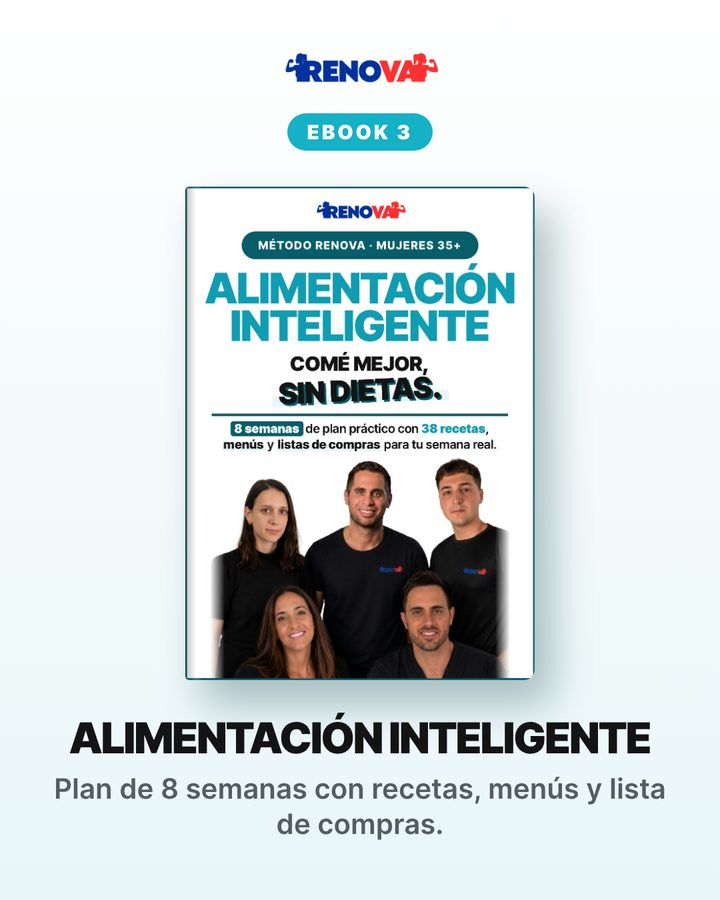
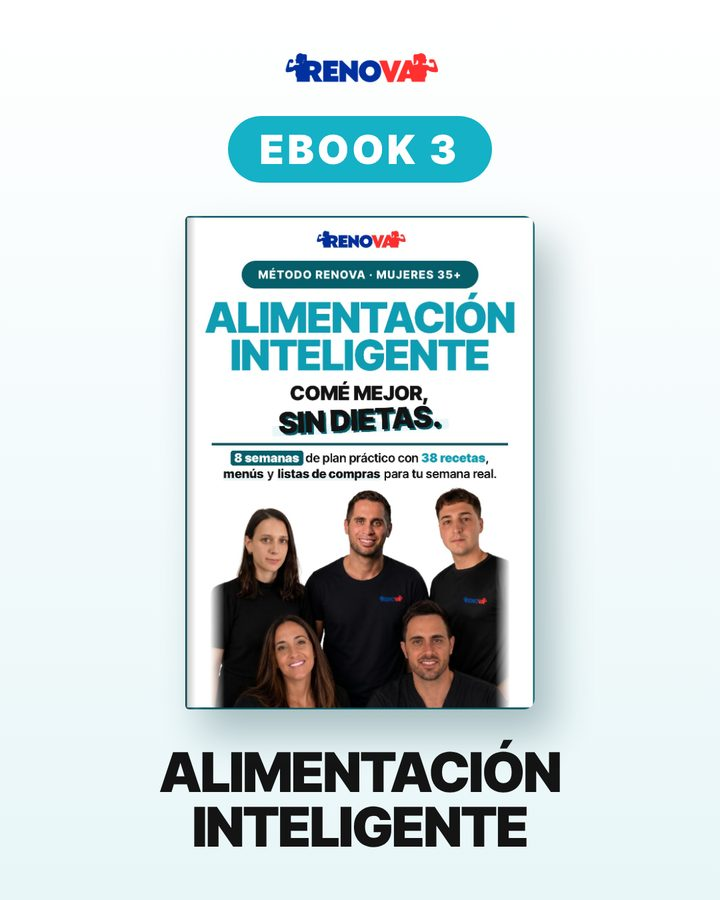
Carrusel: sin subtítulos, etiqueta y título más grandes
Claude-Session: https://claude.ai/code/session_016d9STMTFsB819XAn27rxwK

Changed region(s): [[0.0611, 0.1244, 0.9472, 0.9644]]

diff --git a/fuentes/landing/mockups/carrusel_07.html b/fuentes/landing/mockups/carrusel_07.html
@@ -96,15 +96,15 @@
 body{width:1080px;height:1350px;overflow:hidden;font-family:InterW,sans-serif;color:var(--rnv-tinta);text-align:center;
  background:linear-gradient(180deg,#fff 0%,var(--rnv-turquesa-fondo) 100%)}
 .top{padding-top:80px}.top img{height:56px}
-.tag{display:inline-block;margin-top:30px;font:900 30px InterTightW,sans-serif;letter-spacing:.14em;color:#fff;background:var(--rnv-turquesa);padding:10px 30px;border-radius:999px}
+.tag{display:inline-block;margin-top:34px;font:900 60px InterTightW,sans-serif;letter-spacing:.1em;color:#fff;background:var(--rnv-turquesa);padding:14px 48px;border-radius:999px}
 .tag.b{background:var(--rnv-oro);color:var(--rnv-tinta)}
-.obj{margin:44px auto 0;display:flex;justify-content:center;align-items:center;height:760px}
+.obj{margin:40px auto 0;display:flex;justify-content:center;align-items:center;height:760px}
 .tapa{height:740px;aspect-ratio:210/297;border-radius:6px 16px 16px 6px;overflow:hidden;background:#fff;position:relative;
  box-shadow:26px 36px 60px rgba(6,52,59,.3),0 0 0 1px rgba(0,0,0,.05)}
 .tapa img{width:100%;height:100%;object-fit:cover;object-position:50% 0;display:block}
 .tapa::after{content:"";position:absolute;inset:0 auto 0 0;width:5%;background:linear-gradient(90deg,rgba(0,0,0,.25),rgba(255,255,255,.15) 60%,transparent)}
 .foto{width:900px;height:675px;border-radius:30px;overflow:hidden;box-shadow:0 0 0 8px #fff,0 0 0 11px var(--rnv-turquesa-borde),26px 36px 60px rgba(6,52,59,.25)}
 .foto img{width:100%;height:100%;object-fit:cover;display:block}
-h1{font:900 64px/1.02 InterTightW,sans-serif;letter-spacing:-.02em;text-transform:uppercase;margin-top:44px}
+h1{font:900 82px/1 InterTightW,sans-serif;letter-spacing:-.02em;text-transform:uppercase;margin-top:44px}
 p{font:600 42px/1.25 InterW,sans-serif;color:var(--rnv-gris);margin:18px 70px 0}
-</style><div class="top"><img src="../img/logo.png"><br><span class="tag b">BONUS 4</span></div><div class="obj"><div class="foto"><img src="../img/taller_super.jpg"></div></div><h1>Talleres con profesionales</h1><p>Nutrición, hábitos, estrés y sueño, con nuestro equipo.</p>
+</style><div class="top"><img src="../img/logo.png"><br><span class="tag b">BONUS 4</span></div><div class="obj"><div class="foto"><img src="../img/taller_super.jpg"></div></div><h1>Talleres con<br>profesionales</h1>

diff --git a/fuentes/landing/mockups/carrusel_05.html b/fuentes/landing/mockups/carrusel_05.html
@@ -96,15 +96,15 @@
 body{width:1080px;height:1350px;overflow:hidden;font-family:InterW,sans-serif;color:var(--rnv-tinta);text-align:center;
  background:linear-gradient(180deg,#fff 0%,var(--rnv-turquesa-fondo) 100%)}
 .top{padding-top:80px}.top img{height:56px}
-.tag{display:inline-block;margin-top:30px;font:900 30px InterTightW,sans-serif;letter-spacing:.14em;color:#fff;background:var(--rnv-turquesa);padding:10px 30px;border-radius:999px}
+.tag{display:inline-block;margin-top:34px;font:900 60px InterTightW,sans-serif;letter-spacing:.1em;color:#fff;background:var(--rnv-turquesa);padding:14px 48px;border-radius:999px}
 .tag.b{background:var(--rnv-oro);color:var(--rnv-tinta)}
-.obj{margin:44px auto 0;display:flex;justify-content:center;align-items:center;height:760px}
+.obj{margin:40px auto 0;display:flex;justify-content:center;align-items:center;height:760px}
 .tapa{height:740px;aspect-ratio:210/297;border-radius:6px 16px 16px 6px;overflow:hidden;background:#fff;position:relative;
  box-shadow:26px 36px 60px rgba(6,52,59,.3),0 0 0 1px rgba(0,0,0,.05)}
 .tapa img{width:100%;height:100%;object-fit:cover;object-position:50% 0;display:block}
 .tapa::after{content:"";position:absolute;inset:0 auto 0 0;width:5%;background:linear-gradient(90deg,rgba(0,0,0,.25),rgba(255,255,255,.15) 60%,transparent)}
 .foto{width:900px;height:675px;border-radius:30px;overflow:hidden;box-shadow:0 0 0 8px #fff,0 0 0 11px var(--rnv-turquesa-borde),26px 36px 60px rgba(6,52,59,.25)}
 .foto img{width:100%;height:100%;object-fit:cover;display:block}
-h1{font:900 64px/1.02 InterTightW,sans-serif;letter-spacing:-.02em;text-transform:uppercase;margin-top:44px}
+h1{font:900 82px/1 InterTightW,sans-serif;letter-spacing:-.02em;text-transform:uppercase;margin-top:44px}
 p{font:600 42px/1.25 InterW,sans-serif;color:var(--rnv-gris);margin:18px 70px 0}
-</style><div class="top"><img src="../img/logo.png"><br><span class="tag b">BONUS 2</span></div><div class="obj"><div class="tapa"><img src="pack/tapa_express.png"></div></div><h1>Rutinas express de 15 minutos</h1><p>Para las semanas con poco tiempo, sin cortar el plan.</p>
+</style><div class="top"><img src="../img/logo.png"><br><span class="tag b">BONUS 2</span></div><div class="obj"><div class="tapa"><img src="pack/tapa_express.png"></div></div><h1>Rutinas express<br>de 15 minutos</h1>

diff --git a/fuentes/landing/mockups/carrusel_03.html b/fuentes/landing/mockups/carrusel_03.html
@@ -96,15 +96,15 @@
 body{width:1080px;height:1350px;overflow:hidden;font-family:InterW,sans-serif;color:var(--rnv-tinta);text-align:center;
  background:linear-gradient(180deg,#fff 0%,var(--rnv-turquesa-fondo) 100%)}
 .top{padding-top:80px}.top img{height:56px}
-.tag{display:inline-block;margin-top:30px;font:900 30px InterTightW,sans-serif;letter-spacing:.14em;color:#fff;background:var(--rnv-turquesa);padding:10px 30px;border-radius:999px}
+.tag{display:inline-block;margin-top:34px;font:900 60px InterTightW,sans-serif;letter-spacing:.1em;color:#fff;background:var(--rnv-turquesa);padding:14px 48px;border-radius:999px}
 .tag.b{background:var(--rnv-oro);color:var(--rnv-tinta)}
-.obj{margin:44px auto 0;display:flex;justify-content:center;align-items:center;height:760px}
+.obj{margin:40px auto 0;display:flex;justify-content:center;align-items:center;height:760px}
 .tapa{height:740px;aspect-ratio:210/297;border-radius:6px 16px 16px 6px;overflow:hidden;background:#fff;position:relative;
  box-shadow:26px 36px 60px rgba(6,52,59,.3),0 0 0 1px rgba(0,0,0,.05)}
 .tapa img{width:100%;height:100%;object-fit:cover;object-position:50% 0;display:block}
 .tapa::after{content:"";position:absolute;inset:0 auto 0 0;width:5%;background:linear-gradient(90deg,rgba(0,0,0,.25),rgba(255,255,255,.15) 60%,transparent)}
 .foto{width:900px;height:675px;border-radius:30px;overflow:hidden;box-shadow:0 0 0 8px #fff,0 0 0 11px var(--rnv-turquesa-borde),26px 36px 60px rgba(6,52,59,.25)}
 .foto img{width:100%;height:100%;object-fit:cover;display:block}
-h1{font:900 64px/1.02 InterTightW,sans-serif;letter-spacing:-.02em;text-transform:uppercase;margin-top:44px}
+h1{font:900 82px/1 InterTightW,sans-serif;letter-spacing:-.02em;text-transform:uppercase;margin-top:44px}
 p{font:600 42px/1.25 InterW,sans-serif;color:var(--rnv-gris);margin:18px 70px 0}
-</style><div class="top"><img src="../img/logo.png"><br><span class="tag">EBOOK 3</span></div><div class="obj"><div class="tapa"><img src="pack/tapa_nutri.jpg"></div></div><h1>Alimentación Inteligente</h1><p>Plan de 8 semanas con recetas, menús y lista de compras.</p>
+</style><div class="top"><img src="../img/logo.png"><br><span class="tag">EBOOK 3</span></div><div class="obj"><div class="tapa"><img src="pack/tapa_nutri.jpg"></div></div><h1>Alimentación<br>Inteligente</h1>

diff --git a/fuentes/landing/mockups/carrusel_02.html b/fuentes/landing/mockups/carrusel_02.html
@@ -96,15 +96,15 @@
 body{width:1080px;height:1350px;overflow:hidden;font-family:InterW,sans-serif;color:var(--rnv-tinta);text-align:center;
  background:linear-gradient(180deg,#fff 0%,var(--rnv-turquesa-fondo) 100%)}
 .top{padding-top:80px}.top img{height:56px}
-.tag{display:inline-block;margin-top:30px;font:900 30px InterTightW,sans-serif;letter-spacing:.14em;color:#fff;background:var(--rnv-turquesa);padding:10px 30px;border-radius:999px}
+.tag{display:inline-block;margin-top:34px;font:900 60px InterTightW,sans-serif;letter-spacing:.1em;color:#fff;background:var(--rnv-turquesa);padding:14px 48px;border-radius:999px}
 .tag.b{background:var(--rnv-oro);color:var(--rnv-tinta)}
-.obj{margin:44px auto 0;display:flex;justify-content:center;align-items:center;height:760px}
+.obj{margin:40px auto 0;display:flex;justify-content:center;align-items:center;height:760px}
 .tapa{height:740px;aspect-ratio:210/297;border-radius:6px 16px 16px 6px;overflow:hidden;background:#fff;position:relative;
  box-shadow:26px 36px 60px rgba(6,52,59,.3),0 0 0 1px rgba(0,0,0,.05)}
 .tapa img{width:100%;height:100%;object-fit:cover;object-position:50% 0;display:block}
 .tapa::after{content:"";position:absolute;inset:0 auto 0 0;width:5%;background:linear-gradient(90deg,rgba(0,0,0,.25),rgba(255,255,255,.15) 60%,transparent)}
 .foto{width:900px;height:675px;border-radius:30px;overflow:hidden;box-shadow:0 0 0 8px #fff,0 0 0 11px var(--rnv-turquesa-borde),26px 36px 60px rgba(6,52,59,.25)}
 .foto img{width:100%;height:100%;object-fit:cover;display:block}
-h1{font:900 64px/1.02 InterTightW,sans-serif;letter-spacing:-.02em;text-transform:uppercase;margin-top:44px}
+h1{font:900 82px/1 InterTightW,sans-serif;letter-spacing:-.02em;text-transform:uppercase;margin-top:44px}
 p{font:600 42px/1.25 InterW,sans-serif;color:var(--rnv-gris);margin:18px 70px 0}
-</style><div class="top"><img src="../img/logo.png"><br><span class="tag">EBOOK 2</span></div><div class="obj"><div class="tapa"><img src="pack/tapa_gym.jpg"></div></div><h1>Entrená en el gimnasio</h1><p>El plan de 8 semanas con máquinas y pesas, desde nivel inicial.</p>
+</style><div class="top"><img src="../img/logo.png"><br><span class="tag">EBOOK 2</span></div><div class="obj"><div class="tapa"><img src="pack/tapa_gym.jpg"></div></div><h1>Entrená en<br>el gimnasio</h1>

diff --git a/fuentes/landing/mockups/carrusel_08.html b/fuentes/landing/mockups/carrusel_08.html
@@ -96,15 +96,15 @@
 body{width:1080px;height:1350px;overflow:hidden;font-family:InterW,sans-serif;color:var(--rnv-tinta);text-align:center;
  background:linear-gradient(180deg,#fff 0%,var(--rnv-turquesa-fondo) 100%)}
 .top{padding-top:80px}.top img{height:56px}
-.tag{display:inline-block;margin-top:30px;font:900 30px InterTightW,sans-serif;letter-spacing:.14em;color:#fff;background:var(--rnv-turquesa);padding:10px 30px;border-radius:999px}
+.tag{display:inline-block;margin-top:34px;font:900 60px InterTightW,sans-serif;letter-spacing:.1em;color:#fff;background:var(--rnv-turquesa);padding:14px 48px;border-radius:999px}
 .tag.b{background:var(--rnv-oro);color:var(--rnv-tinta)}
-.obj{margin:44px auto 0;display:flex;justify-content:center;align-items:center;height:760px}
+.obj{margin:40px auto 0;display:flex;justify-content:center;align-items:center;height:760px}
 .tapa{height:740px;aspect-ratio:210/297;border-radius:6px 16px 16px 6px;overflow:hidden;background:#fff;position:relative;
  box-shadow:26px 36px 60px rgba(6,52,59,.3),0 0 0 1px rgba(0,0,0,.05)}
 .tapa img{width:100%;height:100%;object-fit:cover;object-position:50% 0;display:block}
 .tapa::after{content:"";position:absolute;inset:0 auto 0 0;width:5%;background:linear-gradient(90deg,rgba(0,0,0,.25),rgba(255,255,255,.15) 60%,transparent)}
 .foto{width:900px;height:675px;border-radius:30px;overflow:hidden;box-shadow:0 0 0 8px #fff,0 0 0 11px var(--rnv-turquesa-borde),26px 36px 60px rgba(6,52,59,.25)}
 .foto img{width:100%;height:100%;object-fit:cover;display:block}
-h1{font:900 64px/1.02 InterTightW,sans-serif;letter-spacing:-.02em;text-transform:uppercase;margin-top:44px}
+h1{font:900 82px/1 InterTightW,sans-serif;letter-spacing:-.02em;text-transform:uppercase;margin-top:44px}
 p{font:600 42px/1.25 InterW,sans-serif;color:var(--rnv-gris);margin:18px 70px 0}
-</style><div class="top"><img src="../img/logo.png"><br><span class="tag b">BONUS 5</span></div><div class="obj"><div class="tapa"><img src="pack/tapa_comunidad.png"></div></div><h1>Comunidad RENOVA</h1><p>Acceso a la comunidad en Skool, con cursos y talleres.</p>
+</style><div class="top"><img src="../img/logo.png"><br><span class="tag b">BONUS 5</span></div><div class="obj"><div class="tapa"><img src="pack/tapa_comunidad.png"></div></div><h1>Comunidad<br>RENOVA</h1>

diff --git a/fuentes/landing/mockups/carrusel_01.html b/fuentes/landing/mockups/carrusel_01.html
@@ -96,15 +96,15 @@
 body{width:1080px;height:1350px;overflow:hidden;font-family:InterW,sans-serif;color:var(--rnv-tinta);text-align:center;
  background:linear-gradient(180deg,#fff 0%,var(--rnv-turquesa-fondo) 100%)}
 .top{padding-top:80px}.top img{height:56px}
-.tag{display:inline-block;margin-top:30px;font:900 30px InterTightW,sans-serif;letter-spacing:.14em;color:#fff;background:var(--rnv-turquesa);padding:10px 30px;border-radius:999px}
+.tag{display:inline-block;margin-top:34px;font:900 60px InterTightW,sans-serif;letter-spacing:.1em;color:#fff;background:var(--rnv-turquesa);padding:14px 48px;border-radius:999px}
 .tag.b{background:var(--rnv-oro);color:var(--rnv-tinta)}
-.obj{margin:44px auto 0;display:flex;justify-content:center;align-items:center;height:760px}
+.obj{margin:40px auto 0;display:flex;justify-content:center;align-items:center;height:760px}
 .tapa{height:740px;aspect-ratio:210/297;border-radius:6px 16px 16px 6px;overflow:hidden;background:#fff;position:relative;
  box-shadow:26px 36px 60px rgba(6,52,59,.3),0 0 0 1px rgba(0,0,0,.05)}
 .tapa img{width:100%;height:100%;object-fit:cover;object-position:50% 0;display:block}
 .tapa::after{content:"";position:absolute;inset:0 auto 0 0;width:5%;background:linear-gradient(90deg,rgba(0,0,0,.25),rgba(255,255,255,.15) 60%,transparent)}
 .foto{width:900px;height:675px;border-radius:30px;overflow:hidden;box-shadow:0 0 0 8px #fff,0 0 0 11px var(--rnv-turquesa-borde),26px 36px 60px rgba(6,52,59,.25)}
 .foto img{width:100%;height:100%;object-fit:cover;display:block}
-h1{font:900 64px/1.02 InterTightW,sans-serif;letter-spacing:-.02em;text-transform:uppercase;margin-top:44px}
+h1{font:900 82px/1 InterTightW,sans-serif;letter-spacing:-.02em;text-transform:uppercase;margin-top:44px}
 p{font:600 42px/1.25 InterW,sans-serif;color:var(--rnv-gris);margin:18px 70px 0}
-</style><div class="top"><img src="../img/logo.png"><br><span class="tag">EBOOK 1</span></div><div class="obj"><div class="tapa"><img src="pack/tapa_casa.jpg"></div></div><h1>Entrená desde casa</h1><p>8 semanas de rutinas de fuerza, con video de cada ejercicio.</p>
+</style><div class="top"><img src="../img/logo.png"><br><span class="tag">EBOOK 1</span></div><div class="obj"><div class="tapa"><img src="pack/tapa_casa.jpg"></div></div><h1>Entrená<br>desde casa</h1>

diff --git a/fuentes/landing/mockups/carrusel_04.html b/fuentes/landing/mockups/carrusel_04.html
@@ -96,15 +96,15 @@
 body{width:1080px;height:1350px;overflow:hidden;font-family:InterW,sans-serif;color:var(--rnv-tinta);text-align:center;
  background:linear-gradient(180deg,#fff 0%,var(--rnv-turquesa-fondo) 100%)}
 .top{padding-top:80px}.top img{height:56px}
-.tag{display:inline-block;margin-top:30px;font:900 30px InterTightW,sans-serif;letter-spacing:.14em;color:#fff;background:var(--rnv-turquesa);padding:10px 30px;border-radius:999px}
+.tag{display:inline-block;margin-top:34px;font:900 60px InterTightW,sans-serif;letter-spacing:.1em;color:#fff;background:var(--rnv-turquesa);padding:14px 48px;border-radius:999px}
 .tag.b{background:var(--rnv-oro);color:var(--rnv-tinta)}
-.obj{margin:44px auto 0;display:flex;justify-content:center;align-items:center;height:760px}
+.obj{margin:40px auto 0;display:flex;justify-content:center;align-items:center;height:760px}
 .tapa{height:740px;aspect-ratio:210/297;border-radius:6px 16px 16px 6px;overflow:hidden;background:#fff;position:relative;
  box-shadow:26px 36px 60px rgba(6,52,59,.3),0 0 0 1px rgba(0,0,0,.05)}
 .tapa img{width:100%;height:100%;object-fit:cover;object-position:50% 0;display:block}
 .tapa::after{content:"";position:absolute;inset:0 auto 0 0;width:5%;background:linear-gradient(90deg,rgba(0,0,0,.25),rgba(255,255,255,.15) 60%,transparent)}
 .foto{width:900px;height:675px;border-radius:30px;overflow:hidden;box-shadow:0 0 0 8px #fff,0 0 0 11px var(--rnv-turquesa-borde),26px 36px 60px rgba(6,52,59,.25)}
 .foto img{width:100%;height:100%;object-fit:cover;display:block}
-h1{font:900 64px/1.02 InterTightW,sans-serif;letter-spacing:-.02em;text-transform:uppercase;margin-top:44px}
+h1{font:900 82px/1 InterTightW,sans-serif;letter-spacing:-.02em;text-transform:uppercase;margin-top:44px}
 p{font:600 42px/1.25 InterW,sans-serif;color:var(--rnv-gris);margin:18px 70px 0}
-</style><div class="top"><img src="../img/logo.png"><br><span class="tag b">BONUS 1</span></div><div class="obj"><div class="tapa"><img src="pack/tapa_pausa.jpg"></div></div><h1>Pausa activa</h1><p>4 rutinas de 10 minutos para la oficina o tu casa.</p>
+</style><div class="top"><img src="../img/logo.png"><br><span class="tag b">BONUS 1</span></div><div class="obj"><div class="tapa"><img src="pack/tapa_pausa.jpg"></div></div><h1>Pausa<br>activa</h1>

diff --git a/fuentes/landing/mockups/carrusel_06.html b/fuentes/landing/mockups/carrusel_06.html
@@ -96,15 +96,15 @@
 body{width:1080px;height:1350px;overflow:hidden;font-family:InterW,sans-serif;color:var(--rnv-tinta);text-align:center;
  background:linear-gradient(180deg,#fff 0%,var(--rnv-turquesa-fondo) 100%)}
 .top{padding-top:80px}.top img{height:56px}
-.tag{display:inline-block;margin-top:30px;font:900 30px InterTightW,sans-serif;letter-spacing:.14em;color:#fff;background:var(--rnv-turquesa);padding:10px 30px;border-radius:999px}
+.tag{display:inline-block;margin-top:34px;font:900 60px InterTightW,sans-serif;letter-spacing:.1em;color:#fff;background:var(--rnv-turquesa);padding:14px 48px;border-radius:999px}
 .tag.b{background:var(--rnv-oro);color:var(--rnv-tinta)}
-.obj{margin:44px auto 0;display:flex;justify-content:center;align-items:center;height:760px}
+.obj{margin:40px auto 0;display:flex;justify-content:center;align-items:center;height:760px}
 .tapa{height:740px;aspect-ratio:210/297;border-radius:6px 16px 16px 6px;overflow:hidden;background:#fff;position:relative;
  box-shadow:26px 36px 60px rgba(6,52,59,.3),0 0 0 1px rgba(0,0,0,.05)}
 .tapa img{width:100%;height:100%;object-fit:cover;object-position:50% 0;display:block}
 .tapa::after{content:"";position:absolute;inset:0 auto 0 0;width:5%;background:linear-gradient(90deg,rgba(0,0,0,.25),rgba(255,255,255,.15) 60%,transparent)}
 .foto{width:900px;height:675px;border-radius:30px;overflow:hidden;box-shadow:0 0 0 8px #fff,0 0 0 11px var(--rnv-turquesa-borde),26px 36px 60px rgba(6,52,59,.25)}
 .foto img{width:100%;height:100%;object-fit:cover;display:block}
-h1{font:900 64px/1.02 InterTightW,sans-serif;letter-spacing:-.02em;text-transform:uppercase;margin-top:44px}
+h1{font:900 82px/1 InterTightW,sans-serif;letter-spacing:-.02em;text-transform:uppercase;margin-top:44px}
 p{font:600 42px/1.25 InterW,sans-serif;color:var(--rnv-gris);margin:18px 70px 0}
-</style><div class="top"><img src="../img/logo.png"><br><span class="tag b">BONUS 3</span></div><div class="obj"><div class="foto"><img src="pack/plancha.jpg"></div></div><h1>Rutinas de abdominales</h1><p>Para fortalecer tu zona media.</p>
+</style><div class="top"><img src="../img/logo.png"><br><span class="tag b">BONUS 3</span></div><div class="obj"><div class="foto"><img src="pack/plancha.jpg"></div></div><h1>Rutinas de<br>abdominales</h1>

diff --git a/fuentes/landing/mockups/carrusel_bonus.html b/fuentes/landing/mockups/carrusel_bonus.html
@@ -96,15 +96,15 @@
 body{width:1080px;height:1350px;overflow:hidden;font-family:InterW,sans-serif;color:var(--rnv-tinta);text-align:center;
  background:linear-gradient(180deg,#fff 0%,var(--rnv-turquesa-fondo) 100%)}
 .top{padding-top:80px}.top img{height:56px}
-.tag{display:inline-block;margin-top:30px;font:900 30px InterTightW,sans-serif;letter-spacing:.14em;color:#fff;background:var(--rnv-turquesa);padding:10px 30px;border-radius:999px}
+.tag{display:inline-block;margin-top:34px;font:900 60px InterTightW,sans-serif;letter-spacing:.1em;color:#fff;background:var(--rnv-turquesa);padding:14px 48px;border-radius:999px}
 .tag.b{background:var(--rnv-oro);color:var(--rnv-tinta)}
-.obj{margin:44px auto 0;display:flex;justify-content:center;align-items:center;height:760px}
+.obj{margin:40px auto 0;display:flex;justify-content:center;align-items:center;height:760px}
 .tapa{height:740px;aspect-ratio:210/297;border-radius:6px 16px 16px 6px;overflow:hidden;background:#fff;position:relative;
  box-shadow:26px 36px 60px rgba(6,52,59,.3),0 0 0 1px rgba(0,0,0,.05)}
 .tapa img{width:100%;height:100%;object-fit:cover;object-position:50% 0;display:block}
 .tapa::after{content:"";position:absolute;inset:0 auto 0 0;width:5%;background:linear-gradient(90deg,rgba(0,0,0,.25),rgba(255,255,255,.15) 60%,transparent)}
 .foto{width:900px;height:675px;border-radius:30px;overflow:hidden;box-shadow:0 0 0 8px #fff,0 0 0 11px var(--rnv-turquesa-borde),26px 36px 60px rgba(6,52,59,.25)}
 .foto img{width:100%;height:100%;object-fit:cover;display:block}
-h1{font:900 64px/1.02 InterTightW,sans-serif;letter-spacing:-.02em;text-transform:uppercase;margin-top:44px}
+h1{font:900 82px/1 InterTightW,sans-serif;letter-spacing:-.02em;text-transform:uppercase;margin-top:44px}
 p{font:600 42px/1.25 InterW,sans-serif;color:var(--rnv-gris);margin:18px 70px 0}
-</style><div class="top"><img src="../img/logo.png"><br><span class="tag b">BONUS DE REGALO</span></div><div class="obj"><div class="tapa"><img src="pack/tapa_bonus4.png"></div></div><h1>+4 bonus</h1><p>Adaptados a tu poco tiempo.</p>
+</style><div class="top"><img src="../img/logo.png"><br><span class="tag b">BONUS DE REGALO</span></div><div class="obj"><div class="tapa"><img src="pack/tapa_bonus4.png"></div></div><h1>+4 bonus</h1>

diff --git a/fuentes/landing/mockups/carrusel_pack.py b/fuentes/landing/mockups/carrusel_pack.py
@@ -21,16 +21,16 @@ CSS = css(str(Path(__file__).parent)) + """
 body{width:1080px;height:1350px;overflow:hidden;font-family:InterW,sans-serif;color:var(--rnv-tinta);text-align:center;
  background:linear-gradient(180deg,#fff 0%,var(--rnv-turquesa-fondo) 100%)}
 .top{padding-top:80px}.top img{height:56px}
-.tag{display:inline-block;margin-top:30px;font:900 30px InterTightW,sans-serif;letter-spacing:.14em;color:#fff;background:var(--rnv-turquesa);padding:10px 30px;border-radius:999px}
+.tag{display:inline-block;margin-top:34px;font:900 60px InterTightW,sans-serif;letter-spacing:.1em;color:#fff;background:var(--rnv-turquesa);padding:14px 48px;border-radius:999px}
 .tag.b{background:var(--rnv-oro);color:var(--rnv-tinta)}
-.obj{margin:44px auto 0;display:flex;justify-content:center;align-items:center;height:760px}
+.obj{margin:40px auto 0;display:flex;justify-content:center;align-items:center;height:760px}
 .tapa{height:740px;aspect-ratio:210/297;border-radius:6px 16px 16px 6px;overflow:hidden;background:#fff;position:relative;
  box-shadow:26px 36px 60px rgba(6,52,59,.3),0 0 0 1px rgba(0,0,0,.05)}
 .tapa img{width:100%;height:100%;object-fit:cover;object-position:50% 0;display:block}
 .tapa::after{content:"";position:absolute;inset:0 auto 0 0;width:5%;background:linear-gradient(90deg,rgba(0,0,0,.25),rgba(255,255,255,.15) 60%,transparent)}
 .foto{width:900px;height:675px;border-radius:30px;overflow:hidden;box-shadow:0 0 0 8px #fff,0 0 0 11px var(--rnv-turquesa-borde),26px 36px 60px rgba(6,52,59,.25)}
 .foto img{width:100%;height:100%;object-fit:cover;display:block}
-h1{font:900 64px/1.02 InterTightW,sans-serif;letter-spacing:-.02em;text-transform:uppercase;margin-top:44px}
+h1{font:900 82px/1 InterTightW,sans-serif;letter-spacing:-.02em;text-transform:uppercase;margin-top:44px}
 p{font:600 42px/1.25 InterW,sans-serif;color:var(--rnv-gris);margin:18px 70px 0}
 """
 out = Path(".")
@@ -38,10 +38,10 @@ for n, (src, tipo, tag, tit, desc) in enumerate(ITEMS, 1):
     obj = f'<div class="tapa"><img src="{src}"></div>' if tipo == "libro" else f'<div class="foto"><img src="{src}"></div>'
     tit1 = tit.replace("<br>", " ")
     h = (f'<!doctype html><meta charset="utf-8"><style>{CSS}</style><div class="top"><img src="{I}logo.png"><br>'
-         f'<span class="tag{" b" if tag.startswith("BONUS") else ""}">{tag}</span></div><div class="obj">{obj}</div><h1>{tit1}</h1><p>{desc}</p>')
+         f'<span class="tag{" b" if tag.startswith("BONUS") else ""}">{tag}</span></div><div class="obj">{obj}</div><h1>{tit}</h1>')
     (out / f"carrusel_{n:02d}.html").write_text(h.replace('src="../../', 'src="../../').replace("../../img/", "../../img/"), encoding="utf-8")
 # Imagen única de los bonus (para usar sola)
 h = (f'<!doctype html><meta charset="utf-8"><style>{CSS}</style><div class="top"><img src="{I}logo.png"><br><span class="tag b">BONUS DE REGALO</span></div>'
-     f'<div class="obj"><div class="tapa"><img src="{P}tapa_bonus4.png"></div></div><h1>+4 bonus</h1><p>Adaptados a tu poco tiempo.</p>')
+     f'<div class="obj"><div class="tapa"><img src="{P}tapa_bonus4.png"></div></div><h1>+4 bonus</h1>')
 Path("carrusel_bonus.html").write_text(h, encoding="utf-8")
 print("ok")
